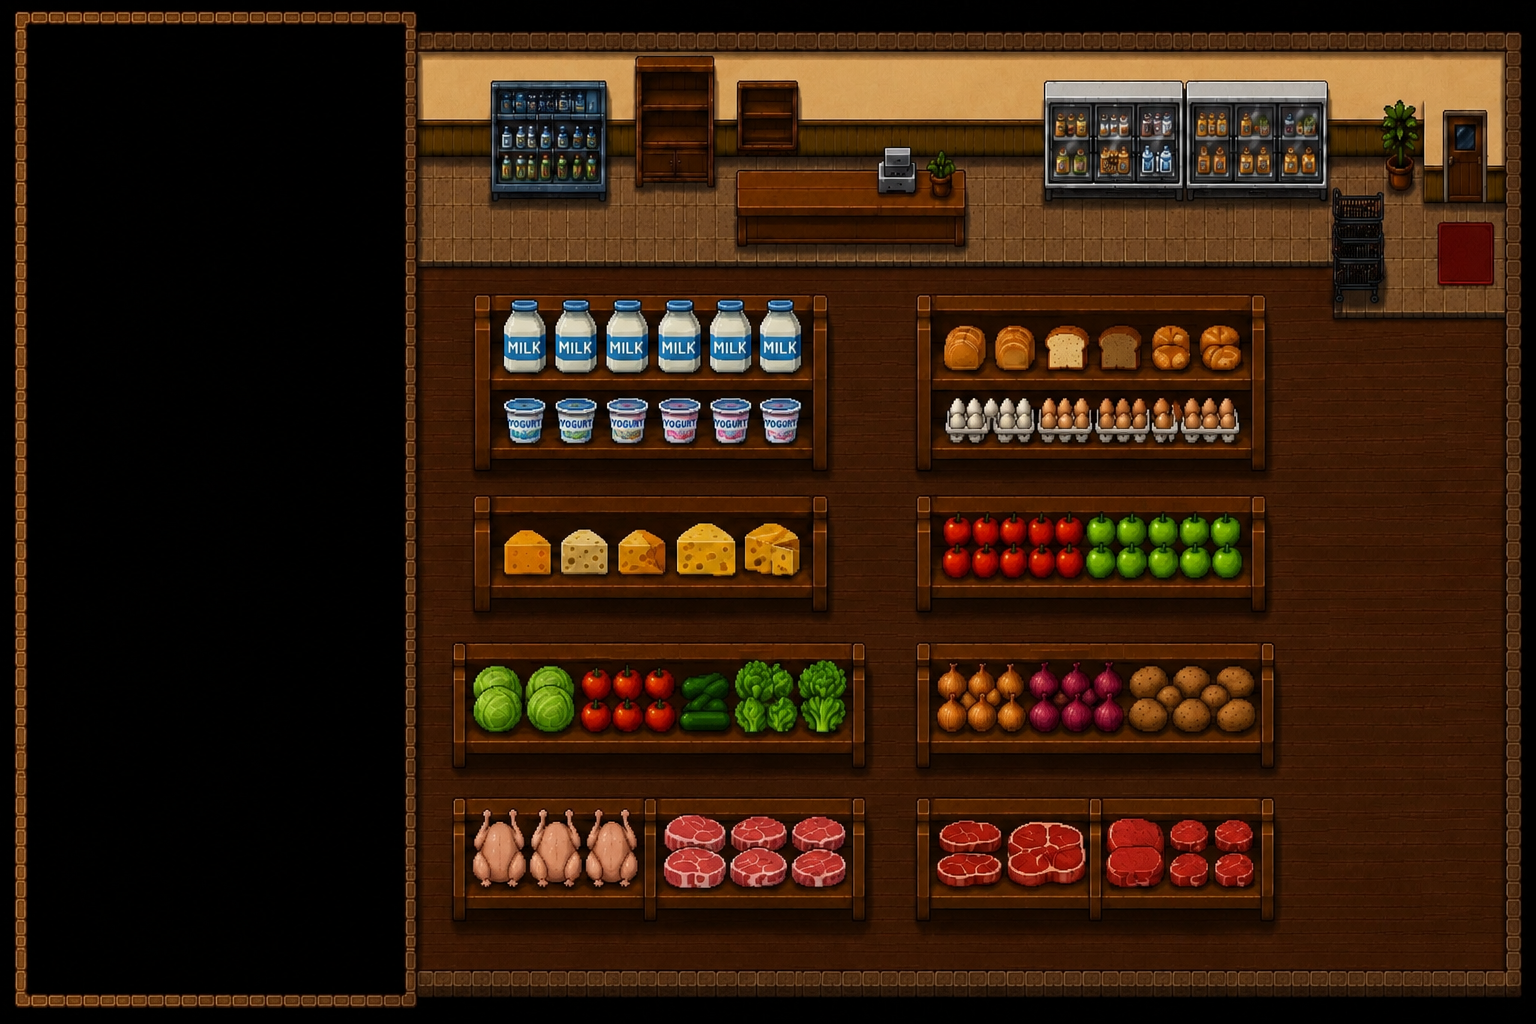
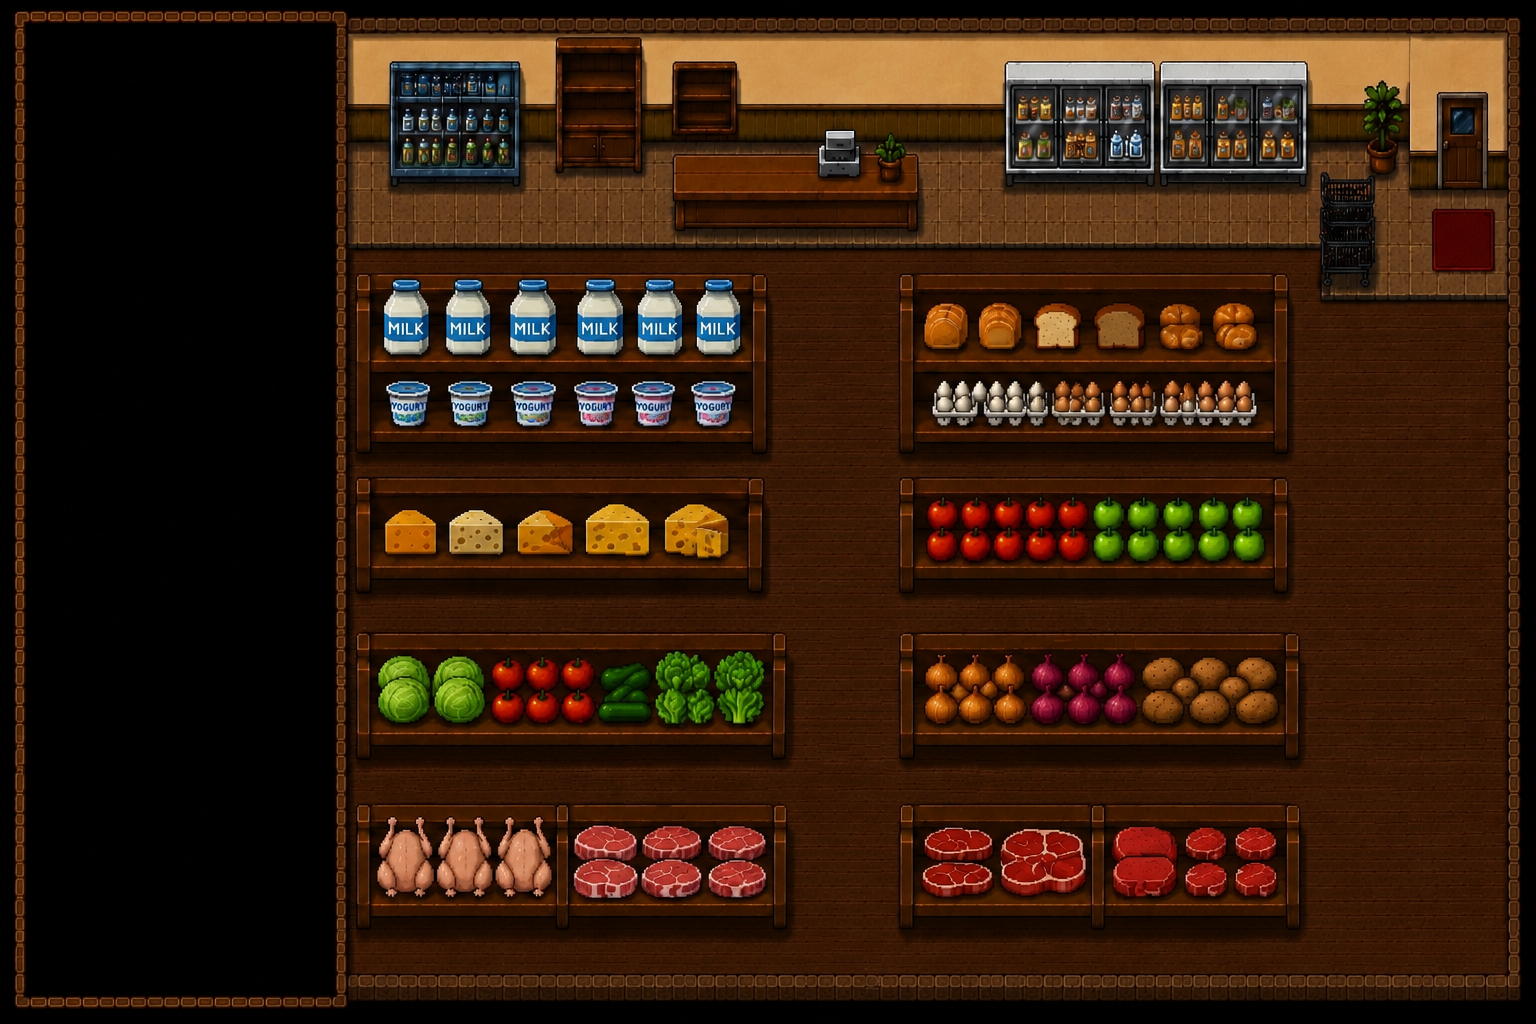
Update code
Update code

diff --git a/main.py b/main.py
@@ -15,7 +15,7 @@ from screens.supermarket import play
 clock = pygame.time.Clock()
 running = True
 
-state = "supermarket-screen"
+state = "welcome-screen"
 font = pygame.font.Font(None, 36)
 
 mainPlayer = Player(character_1, character_2, 225, 135)
@@ -58,7 +58,7 @@ while running:
         play(screen, bg_supermarket, sprites, supermarket_level)
 
         supermarket = pygame.Rect(320, 100, 110, 70)
-        supermarketBounds = pygame.Rect(217, 100, 565, 465)
+        supermarketBounds = pygame.Rect(185, 100, 600, 470)
 
         keys = pygame.key.get_pressed()
         mainPlayer.move(keys)